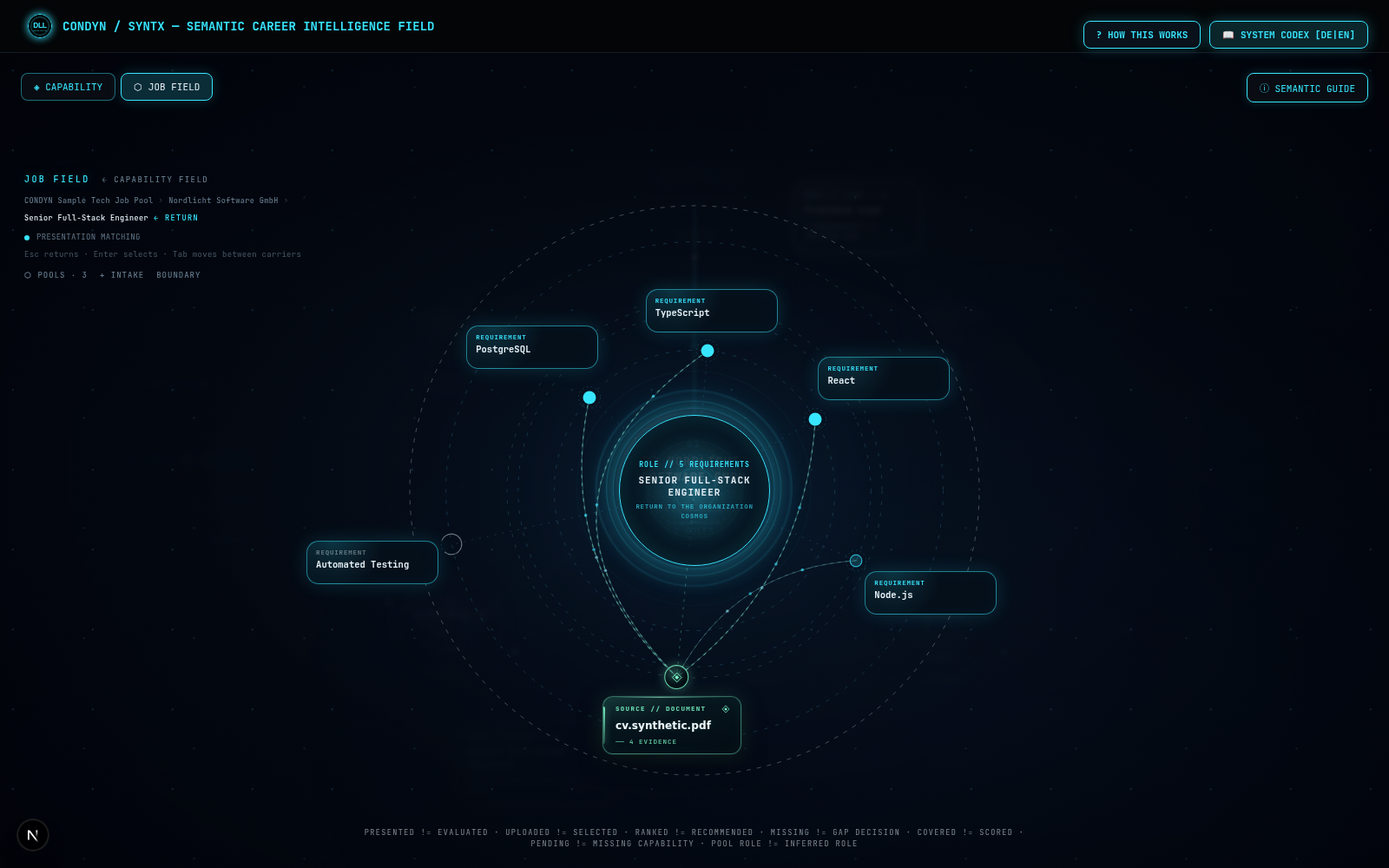
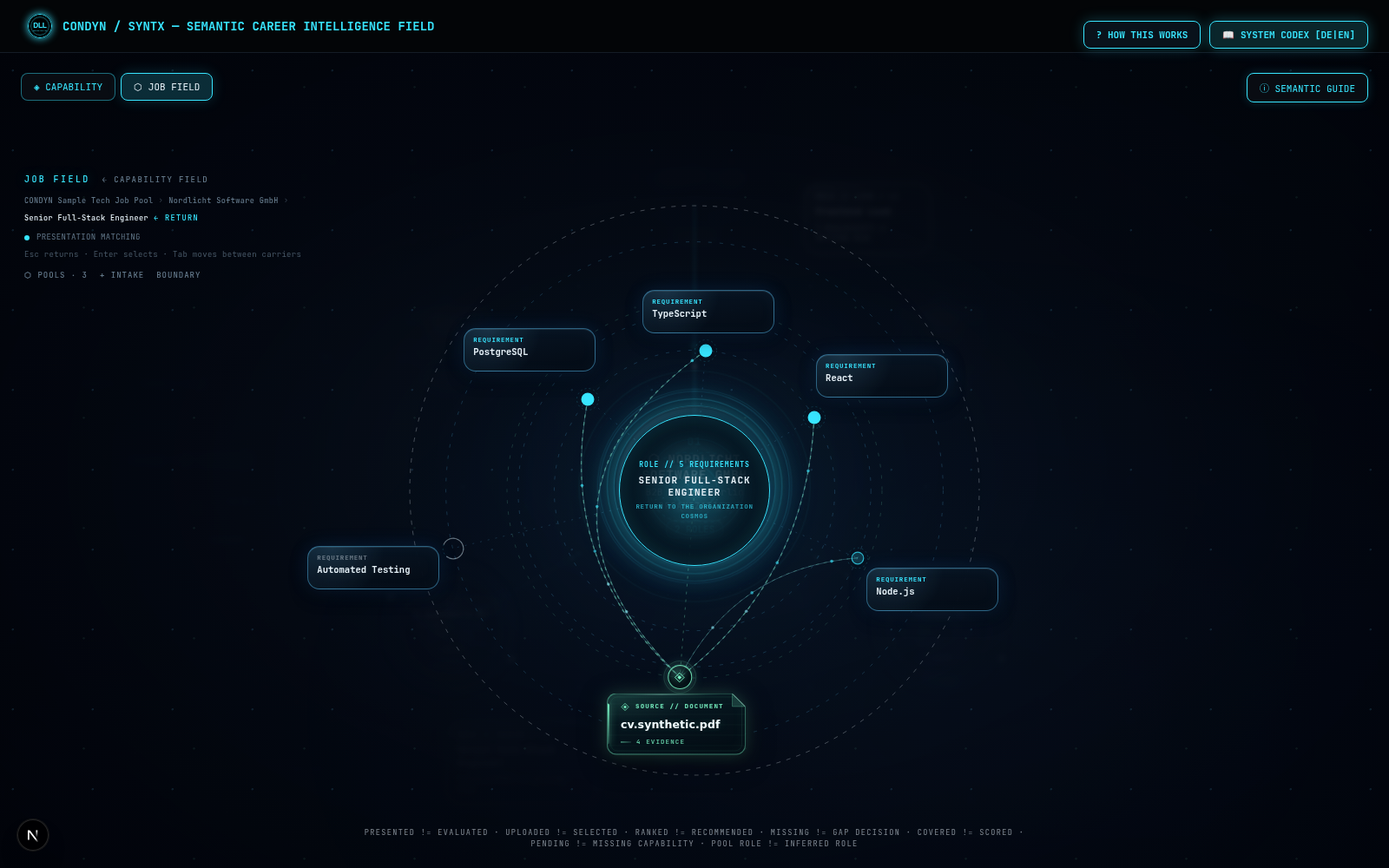
feat(career): SYNTX final visual finishing pass — organization membrane, document carrier, aperture field depth, azure resting cards (owner GO; visual only)
- Organization bodies: still light membrane inside the rim, faint corona, deeper sphere, calmed signature and reading halos so the
  identity text reads cleanly; role-count pill framed in azure at rest.
- Source carrier as a document sheet: folded corner with a lit fold, ruled ground, second glass, outline-following glow, one-line
  kicker led by the vector glyph, membrane ring around the carrier body.
- Evidence aperture: still star ground inside the lens, larger head, quotation marks in the relation colour (text unchanged), layer
  hairline, governance zone with amber light edge and lifted chips.
- Colour identity: resting cosmos cards and deep-focus satellites in the azure register; focused centres stay cyan.
- O-JF-LABEL extended (role-count pill near the body's lower rim), documented only.

No change to layout, ids, states, navigation, keyboard / click logic, data, matching, scores, relations, governance or shared
components. Proofs: tsc 0; Capability 374/374 byte-identical; batch 32 files / 192; workflow e2e 10/10; PINK walk with the
proposed rebinding 3/3.

diff --git a/app/components/career/demo/SyntxField.tsx b/app/components/career/demo/SyntxField.tsx
@@ -115,6 +115,17 @@ const JOB_COSMOS_BACKDROP = "radial-gradient(ellipse at 50% 48%, rgba(16, 46, 82
 const JOB_COSMOS_STARS: React.CSSProperties = { ...SYNTX_COSMOS_STARS, backgroundImage: "radial-gradient(circle at 16% 22%, rgba(92, 200, 255, 0.3) 0 1px, transparent 1.5px), radial-gradient(circle at 76% 31%, rgba(126, 255, 204, 0.16) 0 1px, transparent 1.5px), radial-gradient(ellipse at 70% 76%, rgba(26, 70, 132, 0.14), transparent 52%)" };
 const JOB_DEEP_FOCUS_BACKDROP = "radial-gradient(circle at 50% 42%, rgba(18, 62, 98, 0.24), transparent 26%), radial-gradient(ellipse at 50% 54%, rgba(3, 11, 24, 0.64), rgba(1, 3, 9, 0.97) 76%)";
 const JOB_ORBIT = azure(0.2);
+/** Resting cards of the cosmos (roles, requirements) and the deep-focus satellites: the cosmos materials in the field's azure register.
+ * The focused centres (cosmos centre, nucleus) keep the cyan of active resonance. */
+const JOB_NODE_MATERIAL: React.CSSProperties = {
+  ...SYNTX_COSMOS_NODE_MATERIAL,
+  border: `1px solid ${azure(0.46)}`,
+  background: "radial-gradient(circle at 18% 0%, rgba(120, 212, 255, 0.15), transparent 46%), linear-gradient(172deg, rgba(8, 21, 36, 0.97), rgba(4, 11, 21, 0.97))",
+  boxShadow: `0 0 22px rgba(46, 132, 226, 0.16), 0 8px 20px rgba(0, 0, 0, 0.35), inset 0 1px 0 rgba(180, 232, 255, 0.12), inset 0 0 18px ${azure(0.04)}`
+};
+const JOB_SATELLITE_MATERIAL: React.CSSProperties = { ...SYNTX_SATELLITE_MATERIAL, border: `1px solid ${azure(0.3)}`, background: "linear-gradient(172deg, rgba(6, 17, 30, 0.95), rgba(3, 10, 19, 0.95))", boxShadow: `0 0 15px rgba(46, 132, 226, 0.1), inset 0 1px 0 rgba(180, 232, 255, 0.08)` };
+/** A dark reading halo for text over the body's signature geometry. */
+const READING_HALO = "0 0 3px rgba(3, 8, 16, 0.95), 0 0 8px rgba(3, 8, 16, 0.85)";
 const JOB_TETHER = azure(0.18);
 
 const micro: React.CSSProperties = { fontFamily: MONO, fontSize: "9px", color: MUTED, letterSpacing: "0.3px", lineHeight: 1.55, wordBreak: "break-word" };
@@ -460,10 +471,10 @@ const organizationBodyMaterial = (highlighted: boolean): React.CSSProperties => 
       transition: "opacity 0.35s ease, box-shadow 0.9s cubic-bezier(0.16, 1, 0.3, 1), border-color 0.9s cubic-bezier(0.16, 1, 0.3, 1), background-color 0.9s cubic-bezier(0.16, 1, 0.3, 1)"
     }
   : {
-      backgroundColor: "rgba(6, 13, 24, 0.9)",
-      backgroundImage: "radial-gradient(circle at 34% 24%, rgba(160, 222, 255, 0.12), transparent 42%), radial-gradient(circle at 50% 56%, rgba(16, 38, 66, 0.55), rgba(3, 7, 15, 0.6) 76%)",
-      border: `1.5px solid ${azure(0.42)}`,
-      boxShadow: `0 0 28px rgba(36, 112, 196, 0.18), 0 0 0 1px rgba(3, 8, 16, 0.55), inset 0 1px 0 rgba(176, 230, 255, 0.12), inset 0 0 16px ${azure(0.1)}, inset 0 -18px 28px rgba(1, 4, 10, 0.55)`,
+      backgroundColor: "rgba(5, 12, 23, 0.92)",
+      backgroundImage: "radial-gradient(circle at 33% 22%, rgba(168, 226, 255, 0.13), transparent 40%), radial-gradient(circle at 70% 82%, rgba(40, 104, 196, 0.12), transparent 46%), radial-gradient(circle at 50% 54%, rgba(14, 36, 64, 0.6), rgba(2, 6, 14, 0.7) 78%)",
+      border: `1.5px solid ${azure(0.4)}`,
+      boxShadow: `0 0 34px rgba(36, 112, 196, 0.2), 0 0 0 1px rgba(3, 8, 16, 0.55), inset 0 1px 0 rgba(180, 232, 255, 0.14), inset 0 0 18px ${azure(0.1)}, inset 0 -22px 30px rgba(1, 4, 10, 0.6)`,
       transition: "opacity 0.35s ease, box-shadow 0.9s cubic-bezier(0.16, 1, 0.3, 1), border-color 0.9s cubic-bezier(0.16, 1, 0.3, 1), background-color 0.9s cubic-bezier(0.16, 1, 0.3, 1)"
     };
 
@@ -518,7 +529,7 @@ function OrganizationBody({ organization, index, roles, observation, depth, isAn
           className=""
           animationDelay={`${-4 * (index % 6)}s`}
           style={organizationBodyMaterial(highlighted)}
-          signature={renderSemioticSignature("03", highlighted)}
+          signature={<span style={{ opacity: highlighted ? 0.82 : 0.5, transition: "opacity 0.9s cubic-bezier(0.16, 1, 0.3, 1)" }}>{renderSemioticSignature("03", highlighted)}</span>}
           moonCount={isAnchor ? 0 : roles.length}
           renderMoon={(moon, style) => <RoleMoon role={roles[moon]} style={style} />}
           hud={isHovered ? {
@@ -545,14 +556,17 @@ function OrganizationBody({ organization, index, roles, observation, depth, isAn
         >
           {/* The body's atmosphere: a halo beyond its rim that breathes slowly (the planetarium's atmosphereGlow, 11 s), the rim light of
               its upper edge and the shade of its lower edge, and the inner light that rises when the body resonates (hover, focus). */}
-          <span data-sx-aura aria-hidden="true" style={{ position: "absolute", inset: "-30px", borderRadius: "50%", pointerEvents: "none", background: `radial-gradient(circle, transparent 55%, ${azure(0.11)} 62%, rgba(36, 100, 188, 0.05) 71%, transparent 79%)`, animation: "atmosphereGlow 11s ease-in-out infinite", animationDelay: `${-1.7 * index}s` }} />
+          <span aria-hidden="true" style={{ position: "absolute", inset: "-52px", borderRadius: "50%", pointerEvents: "none", background: "radial-gradient(circle closest-side, transparent 64%, rgba(40, 112, 204, 0.06) 78%, rgba(40, 112, 204, 0.02) 90%, transparent 100%)" }} />
+          <span data-sx-aura aria-hidden="true" style={{ position: "absolute", inset: "-30px", borderRadius: "50%", pointerEvents: "none", background: `radial-gradient(circle, transparent 55%, ${azure(0.12)} 62%, rgba(36, 100, 188, 0.05) 71%, transparent 79%)`, animation: "atmosphereGlow 11s ease-in-out infinite", animationDelay: `${-1.7 * index}s` }} />
+          {/* The light membrane: a fine ring just inside the rim, lit from the upper left and falling off around the body (still). */}
+          <span aria-hidden="true" style={{ position: "absolute", inset: "4px", borderRadius: "50%", pointerEvents: "none", background: "conic-gradient(from 225deg, rgba(200, 242, 255, 0.62), rgba(92, 200, 255, 0.16) 24%, rgba(92, 200, 255, 0.05) 48%, rgba(46, 120, 214, 0.18) 72%, rgba(200, 242, 255, 0.62))", WebkitMaskImage: "radial-gradient(circle closest-side, transparent calc(100% - 1.6px), #000 calc(100% - 1px), #000 100%, transparent 100%)", maskImage: "radial-gradient(circle closest-side, transparent calc(100% - 1.6px), #000 calc(100% - 1px), #000 100%, transparent 100%)", opacity: highlighted ? 0.95 : 0.7, transition: "opacity 0.9s cubic-bezier(0.16, 1, 0.3, 1)" }} />
           <span aria-hidden="true" style={{ position: "absolute", inset: "2px", borderRadius: "50%", pointerEvents: "none", boxShadow: "inset 3px 4px 7px -3px rgba(190, 238, 255, 0.34), inset -3px -5px 9px -4px rgba(24, 84, 170, 0.4)" }} />
           <span aria-hidden="true" style={{ position: "absolute", inset: 0, borderRadius: "50%", pointerEvents: "none", background: "radial-gradient(circle at 50% 50%, rgba(56, 229, 255, 0.16), transparent 66%)", opacity: highlighted ? 1 : 0, transition: "opacity 0.9s cubic-bezier(0.16, 1, 0.3, 1)" }} />
           <span style={{ fontSize: "11px", color: highlighted ? CYAN : azure(0.72), fontWeight: 700, letterSpacing: "1px", position: "relative", zIndex: 1, transition: "color 0.6s ease" }}>{String(index + 1).padStart(2, "0")}</span>
-          <span style={{ fontSize: "13px", color: INK, fontWeight: 700, marginTop: "4px", lineHeight: 1.2, position: "relative", zIndex: 1, textTransform: "uppercase", letterSpacing: "0.6px", textShadow: `0 0 12px ${highlighted ? "rgba(56, 229, 255, 0.45)" : "rgba(92, 200, 255, 0.22)"}` }}>⬡ {organization.name}</span>
-          {subtitle.length > 0 && <span style={{ fontSize: "10px", color: MUTED, marginTop: "4px", lineHeight: 1.2, position: "relative", zIndex: 1 }}>{subtitle}</span>}
-          <span style={{ fontSize: "9px", color: MUTED, marginTop: "3px", position: "relative", zIndex: 1, letterSpacing: "0.8px" }}>{t.manifest.organization}</span>
-          <span style={{ marginTop: "8px", fontSize: "10px", color: highlighted ? CYAN : INK, backgroundColor: highlighted ? "rgba(56, 229, 255, 0.15)" : "rgba(255,255,255,0.05)", padding: "2px 8px", borderRadius: "8px", border: `1px solid ${highlighted ? "rgba(56, 229, 255, 0.4)" : "transparent"}`, position: "relative", zIndex: 1 }}>{organization.roleIds.length} {t.roles}</span>
+          <span style={{ fontSize: "13px", color: INK, fontWeight: 700, marginTop: "4px", lineHeight: 1.2, position: "relative", zIndex: 1, textTransform: "uppercase", letterSpacing: "0.6px", textShadow: `${READING_HALO}, 0 0 14px ${highlighted ? "rgba(56, 229, 255, 0.5)" : "rgba(92, 200, 255, 0.26)"}` }}>⬡ {organization.name}</span>
+          {subtitle.length > 0 && <span style={{ fontSize: "10px", color: "rgba(184, 210, 228, 0.84)", marginTop: "4px", lineHeight: 1.2, position: "relative", zIndex: 1, textShadow: READING_HALO }}>{subtitle}</span>}
+          <span style={{ fontSize: "9px", color: highlighted ? "rgba(142, 236, 255, 0.82)" : azure(0.66), marginTop: "3px", position: "relative", zIndex: 1, letterSpacing: "0.8px", textShadow: READING_HALO, transition: "color 0.6s ease" }}>{t.manifest.organization}</span>
+          <span style={{ marginTop: "8px", fontSize: "10px", color: highlighted ? CYAN : INK, backgroundColor: highlighted ? "rgba(56, 229, 255, 0.15)" : "rgba(8, 22, 38, 0.82)", padding: "2px 8px", borderRadius: "8px", border: `1px solid ${highlighted ? "rgba(56, 229, 255, 0.4)" : azure(0.24)}`, boxShadow: highlighted ? undefined : `inset 0 1px 0 ${azure(0.1)}`, position: "relative", zIndex: 1 }}>{organization.roleIds.length} {t.roles}</span>
         </SyntxResonanceBody>
       </div>
     </FocusTransitionStageShell>
@@ -617,7 +631,7 @@ function OrganizationCosmosLayer({ field, mode, t, size, onObserve, organization
             aria-label={`${role.title} · ${role.organizationName}`}
             aria-pressed={anchor ? undefined : role.sign.state === "role_selected"}
             onClick={stop(select)}
-            style={{ position: "absolute", left: 0, top: 0, width: `${node.width}px`, minHeight: `${node.height}px`, transform: "translate(-50%, -50%)", ...SYNTX_COSMOS_NODE_MATERIAL, ...(compact ? { padding: "7px 10px" } : {}), color: INK, cursor: "pointer", fontFamily: MONO, textAlign: "left", overflowWrap: "anywhere", hyphens: "auto", opacity: anchor ? 0.42 : 1 }}
+            style={{ position: "absolute", left: 0, top: 0, width: `${node.width}px`, minHeight: `${node.height}px`, transform: "translate(-50%, -50%)", ...JOB_NODE_MATERIAL, ...(compact ? { padding: "7px 10px" } : {}), color: INK, cursor: "pointer", fontFamily: MONO, textAlign: "left", overflowWrap: "anywhere", hyphens: "auto", opacity: anchor ? 0.42 : 1 }}
           >
             <span style={{ display: "block", color: CYAN, fontSize: "8px", fontWeight: 700, letterSpacing: "0.8px" }}>{t.manifest.role}{role.seniority !== null ? ` // ${role.seniority.toUpperCase()}` : ""}</span>
             <span style={{ display: "-webkit-box", marginTop: "5px", fontSize: compact ? "10px" : "11px", fontWeight: 700, lineHeight: 1.32, WebkitLineClamp: compact ? 2 : 3, WebkitBoxOrient: "vertical", overflow: "hidden" }}>{role.title}</span>
@@ -740,7 +754,7 @@ function RoleCosmosLayer({ field, mode, t, size, onObserve, role }: LayerProps &
                 <circle cx={14} cy={14} r={shape.r + 5} fill="none" stroke="rgba(56, 229, 255, 0.22)" strokeWidth={0.8} strokeDasharray="2 3" />
               </svg>
               {cardMode !== "glyph" ? (
-                <span style={{ position: "absolute", left: `${card.x - half.w - left}px`, top: `${card.y - half.h - top}px`, width: `${half.w * 2}px`, minHeight: `${half.h * 2}px`, boxSizing: "border-box", ...SYNTX_COSMOS_NODE_MATERIAL, borderRadius: "14px", padding: cardMode === "full" ? "7px 10px" : "5px 8px", fontFamily: MONO, textAlign: "left", color: INK, pointerEvents: "none" }}>
+                <span style={{ position: "absolute", left: `${card.x - half.w - left}px`, top: `${card.y - half.h - top}px`, width: `${half.w * 2}px`, minHeight: `${half.h * 2}px`, boxSizing: "border-box", ...JOB_NODE_MATERIAL, borderRadius: "14px", padding: cardMode === "full" ? "7px 10px" : "5px 8px", fontFamily: MONO, textAlign: "left", color: INK, pointerEvents: "none" }}>
                   <span style={{ display: "block", color: requirement.support === "OPEN" ? NEUTRAL : CYAN, fontSize: "7.5px", fontWeight: 700, letterSpacing: "0.8px" }}>{t.manifest.requirement}</span>
                   <span style={{ display: "-webkit-box", marginTop: "3px", fontSize: cardMode === "full" ? "10.5px" : "9.5px", fontWeight: 700, lineHeight: 1.28, WebkitLineClamp: 2, WebkitBoxOrient: "vertical", overflow: "hidden", overflowWrap: "anywhere" }}>{requirement.name}</span>
                 </span>
@@ -810,14 +824,24 @@ function SourceSatellite({ source, point, centre, rotation, t, inSurface = false
     <div data-testid={`syntx-source-${source.docId}`} data-source-title-state={source.titleState} data-trace-count={source.traceCount} {...signAttributes(source.sign)} aria-label={`${t.source} · ${source.title ?? t.sourceUnresolved}`} style={{ position: "absolute", left: `${box.left}px`, top: `${box.top}px`, width: `${box.right - box.left}px`, height: `${box.bottom - box.top}px`, opacity: recedeOpacity(source.sign, 0.2), pointerEvents: "none" }}>
       <div data-sx-carrier-body data-orbital-motion-driver={inSurface ? undefined : "shared-rAF"} data-orbital-motion-phase={rotation.toFixed(6)} data-orbital-motion-x={point.x.toFixed(3)} data-orbital-motion-y={point.y.toFixed(3)} style={{ position: "absolute", left: 0, top: 0, transform: `translate3d(${point.x - box.left}px, ${point.y - box.top}px, 0)` }}>
         <span aria-hidden="true" style={{ position: "absolute", left: "-22px", top: "-22px", width: "44px", height: "44px", borderRadius: "50%", background: "radial-gradient(circle, rgba(126, 255, 204, 0.16), rgba(126, 255, 204, 0.04) 52%, transparent 70%)", pointerEvents: "none" }} />
+        <span aria-hidden="true" style={{ position: "absolute", left: "-19px", top: "-19px", width: "38px", height: "38px", boxSizing: "border-box", borderRadius: "50%", border: "1px solid rgba(126, 255, 204, 0.14)", pointerEvents: "none" }} />
         <span aria-hidden="true" style={{ position: "absolute", left: "-14px", top: "-14px", width: "28px", height: "28px", boxSizing: "border-box", borderRadius: "50%", border: `1px ${sweepOnly ? "dashed" : "solid"} rgba(126, 255, 204, ${sweepOnly ? 0.55 : 0.85})`, background: "radial-gradient(circle at 38% 30%, rgba(126, 255, 204, 0.14), rgba(3, 14, 20, 0.96) 62%)", boxShadow: "0 0 16px rgba(126, 255, 204, 0.22), inset 0 1px 0 rgba(200, 255, 236, 0.18)", display: "flex", alignItems: "center", justifyContent: "center" }}>{sourceGlyph(13)}</span>
       </div>
-      <span style={{ position: "absolute", left: 0, top: 0, transform: `translate3d(${card.x - box.left}px, ${card.y - box.top}px, 0) translate(-50%, -50%)`, width: "160px", boxSizing: "border-box", borderRadius: "12px", border: "1px solid rgba(126, 255, 204, 0.4)", background: "radial-gradient(130% 90% at 0% 0%, rgba(126, 255, 204, 0.11), transparent 56%), linear-gradient(168deg, rgba(8, 27, 36, 0.97), rgba(3, 11, 19, 0.98))", boxShadow: "0 0 0 1px rgba(126, 255, 204, 0.05), 0 0 22px rgba(126, 255, 204, 0.12), 0 10px 26px rgba(0, 0, 0, 0.55), inset 0 0 18px rgba(126, 255, 204, 0.045)", padding: "9px 12px 9px 14px", fontFamily: MONO, color: INK, textAlign: "left", overflow: "hidden" }}>
-        <span aria-hidden="true" style={{ position: "absolute", left: "12px", right: "12px", top: 0, height: "1px", background: "linear-gradient(90deg, transparent, rgba(170, 255, 224, 0.6), rgba(126, 255, 204, 0.12) 80%, transparent)" }} />
-        <span aria-hidden="true" style={{ position: "absolute", left: 0, top: "11px", bottom: "11px", width: "2px", borderRadius: "0 2px 2px 0", background: "linear-gradient(180deg, rgba(126, 255, 204, 0.9), rgba(126, 255, 204, 0.25))", boxShadow: "0 0 8px rgba(126, 255, 204, 0.45)" }} />
-        <span style={{ display: "flex", alignItems: "center", justifyContent: "space-between", gap: "8px", color: "rgba(126, 255, 204, 0.82)", fontSize: "7.5px", fontWeight: 800, letterSpacing: "1.3px", lineHeight: 1 }}><span>{t.source} // {t.manifest.document}</span>{sourceGlyph(10)}</span>
-        <span style={{ display: "-webkit-box", marginTop: "7px", fontFamily: SANS, fontSize: "12px", fontWeight: 650, letterSpacing: "0.1px", lineHeight: 1.25, WebkitLineClamp: 2, WebkitBoxOrient: "vertical", overflow: "hidden", overflowWrap: "anywhere", color: source.title !== null ? "#effcff" : MUTED, textShadow: source.title !== null ? "0 0 10px rgba(126, 255, 204, 0.16)" : undefined }}>{source.title ?? (source.titleState === "NOT_READ" ? t.sourceNotRead : t.sourceUnresolved)}</span>
-        <span style={{ display: "flex", alignItems: "center", gap: "6px", marginTop: "7px", color: "rgba(126, 255, 204, 0.72)", fontSize: "7.5px", fontWeight: 700, letterSpacing: "1px", lineHeight: 1 }}><span aria-hidden="true" style={{ width: "10px", height: "1px", background: "rgba(126, 255, 204, 0.55)" }} />{source.traceCount} {t.manifest.evidenceCount}</span>
+      {/* The document carrier: its glow follows the document's own outline (drop-shadow over the clipped sheet), the sheet has a folded
+          corner, a lit fold, a ruled ground and a second glass inside its edge — a document, not a card. */}
+      <span style={{ position: "absolute", left: 0, top: 0, transform: `translate3d(${card.x - box.left}px, ${card.y - box.top}px, 0) translate(-50%, -50%)`, width: "160px", filter: "drop-shadow(0 0 9px rgba(126, 255, 204, 0.2)) drop-shadow(0 8px 14px rgba(0, 0, 0, 0.55))" }}>
+        <span style={{ position: "relative", display: "block", boxSizing: "border-box", borderRadius: "11px", border: "1px solid rgba(126, 255, 204, 0.42)", background: "radial-gradient(130% 90% at 0% 0%, rgba(126, 255, 204, 0.12), transparent 56%), repeating-linear-gradient(180deg, transparent 0 11px, rgba(126, 255, 204, 0.028) 11px 12px), linear-gradient(168deg, rgba(8, 28, 37, 0.98), rgba(3, 11, 19, 0.99))", boxShadow: "inset 0 0 18px rgba(126, 255, 204, 0.05)", clipPath: "polygon(0 0, calc(100% - 15px) 0, 100% 15px, 100% 100%, 0 100%)", padding: "10px 14px 10px 15px", fontFamily: MONO, color: INK, textAlign: "left", overflow: "hidden" }}>
+          <span aria-hidden="true" style={{ position: "absolute", inset: "3px", borderRadius: "8px", border: "1px solid rgba(126, 255, 204, 0.07)", pointerEvents: "none" }} />
+          <span aria-hidden="true" style={{ position: "absolute", left: "12px", right: "28px", top: 0, height: "1px", background: "linear-gradient(90deg, transparent, rgba(176, 255, 228, 0.65), rgba(126, 255, 204, 0.14) 85%, transparent)" }} />
+          <span aria-hidden="true" style={{ position: "absolute", left: 0, top: "11px", bottom: "11px", width: "2px", borderRadius: "0 2px 2px 0", background: "linear-gradient(180deg, rgba(126, 255, 204, 0.92), rgba(126, 255, 204, 0.22))", boxShadow: "0 0 8px rgba(126, 255, 204, 0.5)" }} />
+          <svg aria-hidden="true" width={16} height={16} style={{ position: "absolute", right: "-1px", top: "-1px", overflow: "visible" }}>
+            <path d="M 0.5 0.5 L 0.5 15.5 L 15.5 15.5 Z" fill="rgba(126, 255, 204, 0.16)" stroke="rgba(126, 255, 204, 0.32)" strokeWidth={0.8} strokeLinejoin="round" />
+            <path d="M 0.5 0.5 L 15.5 15.5" stroke="rgba(190, 255, 232, 0.85)" strokeWidth={1} />
+          </svg>
+          <span style={{ display: "flex", alignItems: "center", gap: "7px", color: "rgba(126, 255, 204, 0.86)", fontSize: "7.5px", fontWeight: 800, letterSpacing: "1.15px", lineHeight: 1, paddingRight: "8px", whiteSpace: "nowrap" }}>{sourceGlyph(10)}<span>{t.source} // {t.manifest.document}</span></span>
+          <span style={{ display: "-webkit-box", marginTop: "8px", fontFamily: SANS, fontSize: "12.5px", fontWeight: 650, letterSpacing: "0.1px", lineHeight: 1.25, WebkitLineClamp: 2, WebkitBoxOrient: "vertical", overflow: "hidden", overflowWrap: "anywhere", color: source.title !== null ? "#f2fdff" : MUTED, textShadow: source.title !== null ? "0 0 12px rgba(126, 255, 204, 0.18)" : undefined }}>{source.title ?? (source.titleState === "NOT_READ" ? t.sourceNotRead : t.sourceUnresolved)}</span>
+          <span style={{ display: "flex", alignItems: "center", gap: "6px", marginTop: "8px", color: "rgba(126, 255, 204, 0.74)", fontSize: "7.5px", fontWeight: 700, letterSpacing: "1.1px", lineHeight: 1 }}><span aria-hidden="true" style={{ width: "12px", height: "1px", background: "linear-gradient(90deg, rgba(126, 255, 204, 0.8), rgba(126, 255, 204, 0.2))" }} />{source.traceCount} {t.manifest.evidenceCount}</span>
+        </span>
       </span>
     </div>
   );
@@ -883,7 +907,7 @@ function RequirementFocusLayer({ field, mode, t, onObserve, requirement, focus, 
               aria-label={`${sibling.name} · ${t.support[sibling.support]}`}
               aria-pressed={false}
               onClick={stop(observe)}
-              style={{ position: "absolute", left: `${(satellite.width * satellite.scale) / 2 + 6}px`, top: `${(satellite.height * satellite.scale) / 2 + 6}px`, width: `${satellite.width}px`, minHeight: `${satellite.height}px`, transform: "translate(-50%, -50%) scale(var(--satellite-scale))", "--satellite-scale": satellite.scale, "--satellite-opacity": satellite.opacity, opacity: satellite.opacity, animation: "sxSatelliteSettle 0.72s cubic-bezier(0.16, 1, 0.3, 1) both", ...SYNTX_SATELLITE_MATERIAL, fontFamily: MONO, fontSize: "9px", fontWeight: 700, textAlign: "left", cursor: "pointer", overflowWrap: "anywhere", hyphens: "auto", display: "flex", gap: "8px", alignItems: "flex-start" } as React.CSSProperties}
+              style={{ position: "absolute", left: `${(satellite.width * satellite.scale) / 2 + 6}px`, top: `${(satellite.height * satellite.scale) / 2 + 6}px`, width: `${satellite.width}px`, minHeight: `${satellite.height}px`, transform: "translate(-50%, -50%) scale(var(--satellite-scale))", "--satellite-scale": satellite.scale, "--satellite-opacity": satellite.opacity, opacity: satellite.opacity, animation: "sxSatelliteSettle 0.72s cubic-bezier(0.16, 1, 0.3, 1) both", ...JOB_SATELLITE_MATERIAL, fontFamily: MONO, fontSize: "9px", fontWeight: 700, textAlign: "left", cursor: "pointer", overflowWrap: "anywhere", hyphens: "auto", display: "flex", gap: "8px", alignItems: "flex-start" } as React.CSSProperties}
             >
               <svg aria-hidden="true" width={16} height={16} style={{ flexShrink: 0, overflow: "visible" }}><circle cx={8} cy={8} r={siblingShape.r * 0.8} fill={siblingShape.fill} stroke={siblingShape.stroke} strokeWidth={siblingShape.strokeWidth} strokeDasharray={siblingShape.dash} /></svg>
               <span>{sibling.name}</span>
@@ -1102,6 +1126,8 @@ function Aperture({ aperture, field, t, anchor, onClose }: { aperture: SyntxAper
         {/* Depth: a second glass a few pixels inside the frame and the lit upper edge (both still). */}
         <span aria-hidden="true" style={{ position: "absolute", inset: "5px", borderRadius: "10px", pointerEvents: "none", border: "1px solid rgba(126, 255, 204, 0.06)", zIndex: -1 }} />
         <span aria-hidden="true" style={{ position: "absolute", left: "24px", right: "24px", top: 0, height: "1px", pointerEvents: "none", background: "linear-gradient(90deg, transparent, rgba(170, 255, 226, 0.7) 30%, rgba(120, 236, 255, 0.55) 70%, transparent)" }} />
+        {/* The field inside the lens: a faint star ground (still), as in the cosmos the aperture belongs to. */}
+        <span aria-hidden="true" style={{ ...JOB_COSMOS_STARS, opacity: 0.22, borderRadius: "14px", zIndex: -1 }} />
 
         {/* Head: what is inspected — the requirement (or the role) it belongs to. */}
         <header style={{ padding: "16px 20px 14px", background: "linear-gradient(180deg, rgba(126, 255, 204, 0.07), rgba(126, 255, 204, 0.01))", borderRadius: "14px 14px 0 0" }}>
@@ -1109,7 +1135,7 @@ function Aperture({ aperture, field, t, anchor, onClose }: { aperture: SyntxAper
             <span style={apertureKicker}>{content.kind === "pending" ? t.manifest.role : t.manifest.requirement}{content.kind === "trace" ? ` · ${t.manifest.evidence}` : ""}</span>
             <button data-testid="syntx-aperture-close" onClick={onClose} style={{ ...action("muted"), fontSize: "8.5px", padding: "2px 0" }}>{t.close}</button>
           </div>
-          <div style={{ marginTop: "8px", fontFamily: MONO, fontSize: "15px", fontWeight: 800, letterSpacing: "0.6px", lineHeight: 1.3, textTransform: "uppercase", color: "#effcff", textShadow: "0 0 18px rgba(56, 229, 255, 0.34), 0 0 2px rgba(210, 248, 255, 0.35)" }}>{aperture.requirement !== null ? aperture.requirement.name : observedRole?.title ?? ""}</div>
+          <div style={{ marginTop: "9px", fontFamily: MONO, fontSize: "16px", fontWeight: 800, letterSpacing: "0.7px", lineHeight: 1.3, textTransform: "uppercase", color: "#effcff", textShadow: "0 0 18px rgba(56, 229, 255, 0.34), 0 0 2px rgba(210, 248, 255, 0.35)" }}>{aperture.requirement !== null ? aperture.requirement.name : observedRole?.title ?? ""}</div>
         </header>
         <div aria-hidden="true" style={apertureRule("rgba(126, 255, 204, 0.3)")} />
 
@@ -1123,8 +1149,9 @@ function Aperture({ aperture, field, t, anchor, onClose }: { aperture: SyntxAper
                 <span style={{ fontFamily: SANS, fontSize: "13px", fontWeight: 600, color: INK }}>{content.trace.sourceTitle ?? (content.trace.sourceTitleState === "NOT_READ" ? t.sourceNotRead : t.sourceUnresolved)}</span>
                 {content.trace.location !== null && <span style={{ ...apertureChip("rgba(126, 255, 204, 0.35)"), fontSize: "9.5px" }}><span style={apertureLabel}>{t.location}</span>{content.trace.location}</span>}
               </span>
-              <p data-testid="syntx-aperture-quote" style={{ margin: 0, padding: "13px 16px", borderRadius: "10px", borderLeft: `2px ${unscored ? "dashed" : "solid"} ${unscored ? "rgba(142, 239, 255, 0.7)" : "rgba(126, 255, 204, 0.85)"}`, background: "linear-gradient(90deg, rgba(126, 255, 204, 0.08), rgba(126, 255, 204, 0.02) 70%, rgba(56, 229, 255, 0.02))", boxShadow: "inset 0 0 0 1px rgba(126, 255, 204, 0.07), inset 0 10px 22px rgba(0, 4, 10, 0.28), -1px 0 10px rgba(126, 255, 204, 0.12)", fontFamily: SANS, fontSize: "15px", lineHeight: 1.6, color: "#f3fcfe", letterSpacing: "0.1px" }}>“{content.trace.quote}”</p>
-              <span style={{ ...micro, fontSize: "10px", color: "rgba(206, 232, 241, 0.7)" }}><span style={apertureLabel}>{t.capabilityReference}:</span> <span style={{ color: INK }}>{content.trace.capabilityName}</span>{content.trace.matchedConstituent !== null ? ` · ${t.constituent} ${content.trace.matchedConstituent}` : ""} · {t.basis} <span style={{ color: INK }}>{content.trace.basis}</span></span>
+              <p data-testid="syntx-aperture-quote" style={{ margin: 0, padding: "13px 16px", borderRadius: "10px", borderLeft: `2px ${unscored ? "dashed" : "solid"} ${unscored ? "rgba(142, 239, 255, 0.7)" : "rgba(126, 255, 204, 0.85)"}`, background: "linear-gradient(90deg, rgba(126, 255, 204, 0.08), rgba(126, 255, 204, 0.02) 70%, rgba(56, 229, 255, 0.02))", boxShadow: "inset 0 0 0 1px rgba(126, 255, 204, 0.07), inset 0 10px 22px rgba(0, 4, 10, 0.28), -1px 0 10px rgba(126, 255, 204, 0.12)", fontFamily: SANS, fontSize: "15px", lineHeight: 1.62, color: "#f3fcfe", letterSpacing: "0.1px" }}><span style={{ color: unscored ? "rgba(142, 239, 255, 0.85)" : "rgba(126, 255, 204, 0.85)", textShadow: "0 0 10px rgba(126, 255, 204, 0.35)" }}>“</span>{content.trace.quote}<span style={{ color: unscored ? "rgba(142, 239, 255, 0.85)" : "rgba(126, 255, 204, 0.85)", textShadow: "0 0 10px rgba(126, 255, 204, 0.35)" }}>”</span></p>
+              <span aria-hidden="true" style={{ ...apertureRule("rgba(56, 229, 255, 0.22)"), margin: "1px 0" }} />
+              <span style={{ ...micro, fontSize: "10px", color: "rgba(206, 232, 241, 0.72)" }}><span style={apertureLabel}>{t.capabilityReference}:</span> <span style={{ color: INK }}>{content.trace.capabilityName}</span>{content.trace.matchedConstituent !== null ? ` · ${t.constituent} ${content.trace.matchedConstituent}` : ""} · {t.basis} <span style={{ color: INK }}>{content.trace.basis}</span></span>
               {content.trace.contribution !== null && content.trace.confidence !== null && (
                 <span data-testid="syntx-aperture-contribution" style={{ display: "flex", flexWrap: "wrap", gap: "7px" }}>
                   <span style={apertureChip("rgba(56, 229, 255, 0.35)")}><span style={apertureLabel}>{t.contribution}</span> {content.trace.contribution}</span>
@@ -1156,12 +1183,13 @@ function Aperture({ aperture, field, t, anchor, onClose }: { aperture: SyntxAper
         </div>
 
         {/* Boundary zone: the authority statement, separated from the evidence it qualifies. */}
-        <footer style={{ padding: "13px 20px 15px", borderTop: "1px dashed rgba(255, 179, 56, 0.34)", background: "linear-gradient(180deg, rgba(255, 179, 56, 0.06), rgba(255, 179, 56, 0.012))", boxShadow: "inset 0 10px 18px -12px rgba(0, 0, 0, 0.6)", borderRadius: "0 0 14px 14px" }}>
+        <footer style={{ position: "relative", padding: "14px 20px 16px", borderTop: "1px dashed rgba(255, 179, 56, 0.36)", background: "radial-gradient(90% 120% at 0% 0%, rgba(255, 179, 56, 0.08), transparent 60%), linear-gradient(180deg, rgba(255, 179, 56, 0.05), rgba(255, 179, 56, 0.01))", boxShadow: "inset 0 10px 18px -12px rgba(0, 0, 0, 0.6)", borderRadius: "0 0 14px 14px" }}>
+          <span aria-hidden="true" style={{ position: "absolute", left: "20px", right: "20px", top: "-1px", height: "1px", background: "linear-gradient(90deg, transparent, rgba(255, 196, 96, 0.5), transparent)", boxShadow: "0 0 8px rgba(255, 179, 56, 0.35)" }} />
           <span data-testid="syntx-aperture-authority" style={{ display: "flex", flexWrap: "wrap", alignItems: "center", gap: "5px 6px", fontFamily: MONO, fontSize: "10px", lineHeight: 1.4, color: AMBER }}>
             {authorityParts.map((part, index) => (
               <React.Fragment key={part}>
                 {index > 0 && <span style={visuallyHidden}> · </span>}
-                <span style={{ padding: "2px 8px", borderRadius: "6px", border: "1px solid rgba(255, 179, 56, 0.3)", background: "linear-gradient(180deg, rgba(255, 179, 56, 0.08), rgba(255, 179, 56, 0.035))" }}>{part}</span>
+                <span style={{ padding: "3px 9px", borderRadius: "6px", border: "1px solid rgba(255, 179, 56, 0.32)", background: "linear-gradient(180deg, rgba(255, 179, 56, 0.1), rgba(255, 179, 56, 0.035))", boxShadow: "inset 0 1px 0 rgba(255, 214, 150, 0.1)", letterSpacing: "0.3px" }}>{part}</span>
               </React.Fragment>
             ))}
           </span>

diff --git a/docs/career_analysis/JOB_FIELD_FRONTEND.md b/docs/career_analysis/JOB_FIELD_FRONTEND.md
@@ -635,6 +635,34 @@ ellipse can sit close to the level's lower inset (at 1600 × 1000 the "Senior Fu
 statement). Evidence: `evidence/job-pool/semiotic-transfer/finishing/organization-cosmos-role-labels-observation.jpg`. A correction
 would touch `syntxCosmosLayout` (layout), which this pass excludes.
 
+#### 13.2.5 Final visual finishing pass (owner "FINAL VISUAL FINISHING PASS — JOB FIELD", GO 2026-10-13; visual refinement only)
+
+On d16db44, inside the same boundary as §13.2.4 (no architecture, layout, component, function, data, logic, id, state, navigation,
+keyboard, click, governance or proof change). No shared component touched in this pass; Capability renders 374 / 374 byte-identical.
+
+- **Organization resonance body.** A still light membrane — a fine ring just inside the rim, lit from the upper left and falling off
+  around the body (conic light, masked to 1.6 px) — and a wide, very faint corona beyond the breathing halo; a deeper sphere (second,
+  lower azure light); the planetarium signature calmed to .5 at rest (.82 resonating) so that name, sector / region and the
+  ORGANIZATION line read cleanly; a dark reading halo under the identity text, sector / region at higher contrast, the role-count
+  pill framed in azure at rest.
+- **Source document carrier.** A document sheet, not a card: a folded corner with a lit fold edge, a faintly ruled ground, a second
+  glass inside the edge, the mint spine and lit upper edge; its glow follows the sheet's own outline (drop-shadow over the clipped
+  sheet). The vector glyph leads the SOURCE // DOCUMENT kicker (one line); the title in the sans reading face at 12.5 px; a mint
+  membrane ring around the carrier body. Width, position, texts and the dashed body of a sweep-only source unchanged.
+- **Evidence aperture.** The field inside the lens (the cosmos star ground, still, .22), a larger head name, the quote's quotation
+  marks in the relation's colour (text content unchanged), a hairline between the evidence and its reference / metrics, and a
+  governance boundary zone with an amber light edge over its dashed border, a warm corner light and lifted chips. Hierarchy unchanged;
+  no text movement; the only motion is the existing still-surface glow breath; REDUCED unchanged (no animation, no transition).
+- **Job Field colour identity.** Resting cosmos cards (organization-cosmos roles, role-cosmos requirements) and deep-focus satellites
+  take the azure register (`JOB_NODE_MATERIAL`, `JOB_SATELLITE_MATERIAL`); the focused centres (cosmos centre, nucleus) keep the cyan of
+  active resonance. Kicker colours that carry meaning (cyan / neutral for OPEN), mint evidence, amber authority unchanged.
+
+**O-JF-LABEL extended (documented only, not changed):** besides the organization-cosmos role card near the lower inset (§13.2.4),
+the role-count pill inside an organization body sits close to the body's lower rim, closest where the name or the sector / region
+wraps to two lines (e.g. "Rheinwerk Systems AG", "Industrial Edge & Automation · Cologne"). Evidence:
+`evidence/job-pool/semiotic-transfer/final-pass/role-label-observation.jpg`. A correction would change the body's internal layout,
+which this pass excludes.
+
 ### 13.3 DOM contract (PINK BR-1 … BR-5; GELB conditions a/b)
 
 **BR-1 field root** `data-testid="syntx-field"`: `data-field-grammar="SYNTX_FIELD_V1"`, `data-observation-kind` FIELD|ORGANIZATION|ROLE|REQUIREMENT
@@ -783,3 +811,4 @@ observation point. Readable labels wrap at word boundaries (`wrapLines`), never 
 | 2026-10-12 | Semiotic transfer (owner "GRÜN — SYNTX SEMIOTIC TRANSFER", GO for variant A; on 5898def = 9e86d44 + plan 1.9.0; GREEN only, isolated lab) | §13.2.3: seven domain-neutral manifestation components extracted from the Capability Field (374/374 renders byte-identical); the Job Field rebuilt on them as planetarium → organization cosmos → role cosmos → requirement deep focus → evidence HUD; organizations first (roles as moons); scored/unscored separated per row and curve; scale check with 16 organizations / 53 roles / 191 requirements. Findings fixed on the way: keyframe text inside the stage (now at the field root), zero-size sign wrappers (now real extents), colliding test-id prefixes (renamed), floating aperture (now still), global button ripple (suppressed in the field) | tsc 0; unit/SSR/governance/sealed SIL/Capability batch 40 files / 230; workflow e2e 10/10; PINK walk unchanged 0/3 (expected: Q-01 role buttons, Q-06 camera, focus tag); PINK walk with the proposed rebinding 3/3 |
 | 2026-10-12 | Evidence aperture refinement (owner "Die Evidenz-Apertur … veredeln"; visual / semiotic only, on ca11794; GREEN only, isolated lab) | the inspection aperture as a calm hologram surface: rounded HUD with a fine mint / cyan frame and atmospheric interior, a glow layer that breathes (`sxApertureBreathe` 7 s, opacity only — the surface holds still), and semantic layers: head (requirement or role), relation line (stroke sample + relation · scored / unscored), source line (glyph, title, location chip), the quote as its own reading space, micro-metric chips (contribution, confidence, weight; resonance and rank in the pending aperture), explanation, and a separated boundary zone with the authority statement as chips (text unchanged). Ids, states, texts, data, keyboard and click logic unchanged. Before / after: `evidence/job-pool/semiotic-transfer/aperture/` | job-pool batch 18 files / 114; workflow e2e 10/10; PINK walk with the proposed rebinding 3/3 |
 | 2026-10-13 | Semiotic finishing pass (owner "SFE — GREEN · SEMIOTIC FINISHING PASS", on 00e9103; visual only, GREEN only, isolated lab) | §13.2.4: Job Field resonance tone (azure atmosphere and resting structure; semantic colours unchanged), organization bodies as lit resonance spheres with a slow atmosphere halo and a calm light reaction, the source carrier as a document membrane with a vector glyph, the aperture with more depth and a slower two-tone glow; O-JF-LABEL documented. Shared components: optional tone props only (Capability renders 374 / 374 byte-identical). Before / after: `evidence/job-pool/semiotic-transfer/finishing/` | tsc 0; Capability renders 374 / 374 byte-identical; unit / SSR / governance / sealed SIL / Capability batch 32 files / 192; workflow e2e 10/10; PINK walk with the proposed rebinding 3/3 (Q-01 … Q-11, Q-06 and carried states PASS; report under finishing/pink-walk-proposal) |
+| 2026-10-13 | Final visual finishing pass (owner "FINAL VISUAL FINISHING PASS — JOB FIELD", on d16db44; visual only, GREEN only, isolated lab) | §13.2.5: organization bodies with a still light membrane, corona, calmed signature and reading halos; the source carrier as a document sheet (folded corner, ruled ground, outline glow); the aperture with field ground, quotation marks in the relation colour, layer hairline and a lifted governance zone; resting cards and satellites in the azure register; O-JF-LABEL extended. Before / after: `evidence/job-pool/semiotic-transfer/final-pass/` | tsc 0; Capability renders 374 / 374 byte-identical (sha256 unchanged); unit / SSR / governance / sealed SIL / Capability batch 32 files / 192; workflow e2e 10/10; PINK walk with the proposed rebinding 3/3 (report under final-pass/pink-walk-proposal) |
